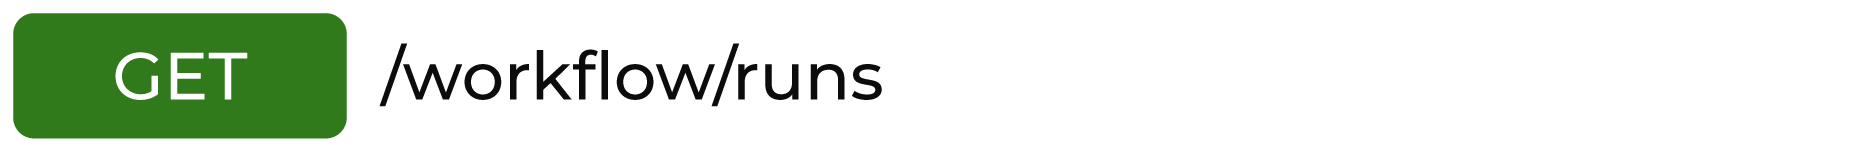
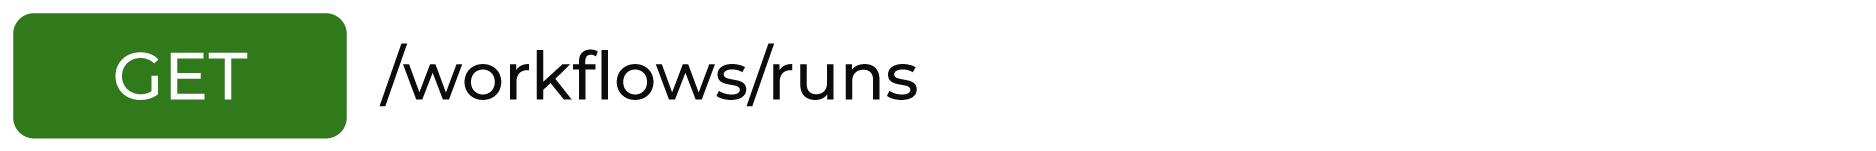
workflows endpoint, not workflow

Changed region(s): [[0.371, 0.2914, 0.4947, 0.7152]]

diff --git a/amperity_api/source/_templates/nav-docs.html b/amperity_api/source/_templates/nav-docs.html
@@ -234,12 +234,12 @@
         "hasSubItems": true,
         "subItems": [
           {
-            "title": "GET /workflow/runs",
+            "title": "GET /workflows/runs",
             "hasSubItems": false,
             "url": "/api/endpoint_get_workflows_list.html"
           },
           {
-            "title": "GET /workflow/runs/{id}",
+            "title": "GET /workflows/runs/{id}",
             "hasSubItems": false,
             "url": "/api/endpoint_get_workflows_fetch.html"
           },

diff --git a/amperity_api/source/endpoint_get_workflows_fetch.rst b/amperity_api/source/endpoint_get_workflows_fetch.rst
@@ -12,16 +12,16 @@
 
 .. meta::
     :content class=swiftype name=title data-type=string:
-        GET /workflow/runs/{id}
+        GET /workflows/runs/{id}
 
 
 ==================================================
-GET /workflow/runs/{id}
+GET /workflows/runs/{id}
 ==================================================
 
 .. endpoint-get-workflows-fetch-start
 
-Use the **/workflow/runs/{id}** endpoint to return details for a specific workflow.
+Use the **/workflows/runs/{id}** endpoint to return details for a specific workflow.
 
 .. endpoint-get-workflows-fetch-end
 
@@ -33,7 +33,7 @@ Available HTTP methods
 
 .. image:: ../../images/api-request-get-workflow-runs-fetch.png
    :width: 440 px
-   :alt: GET /workflow/runs/{id}
+   :alt: GET /workflows/runs/{id}
    :align: left
    :class: no-scaled-link
 
@@ -58,11 +58,11 @@ Base URL
 
 .. endpoint-get-workflows-fetch-base-url-start
 
-All requests made to the **/workflow/runs/{id}** endpoint should be directed to the following base URL:
+All requests made to the **/workflows/runs/{id}** endpoint should be directed to the following base URL:
 
 ::
 
-   https://{tenant-id}.amperity.com/api/workflow/runs/{id}
+   https://{tenant-id}.amperity.com/api/workflows/runs/{id}
 
 .. endpoint-get-workflows-fetch-base-url-end
 
@@ -84,12 +84,12 @@ Requests
 
 .. endpoint-get-workflows-fetch-request-start
 
-A request to the **/workflow/runs/{id}** endpoint is similar to:
+A request to the **/workflows/runs/{id}** endpoint is similar to:
 
 .. code-block:: rest
 
    curl --request GET \
-          'https://tenant.amperity.com/api/workflow/runs/{id} \
+          'https://tenant.amperity.com/api/workflows/runs/{id} \
           ?view=overview \
         --header 'amperity-tenant: tenant' \
         --header 'api-version: 2024-04-01' \
@@ -107,7 +107,7 @@ Request parameters
 
 .. endpoint-get-workflows-fetch-request-parameters-start
 
-The following table describes the parameters that may be used with the **/workflow/runs/{id}** endpoint.
+The following table describes the parameters that may be used with the **/workflows/runs/{id}** endpoint.
 
 .. list-table::
    :widths: 35 65
@@ -129,7 +129,7 @@ The following table describes the parameters that may be used with the **/workfl
 
        The unique identifier for a workflow, similar to: **wf-20240603-12345-MNabc**.
 
-       The workflow ID must be in the URL. For example: **/workflow/runs/wf-20240603-12345-MNabc**.
+       The workflow ID must be in the URL. For example: **/workflows/runs/wf-20240603-12345-MNabc**.
 
        Use the :doc:`/workflow/runs <endpoint_get_workflows_list>` endpoint to get a list of workflow IDs or copy the ID from the **Workflows** page in Amperity.
 
@@ -153,7 +153,7 @@ Request examples
 
 .. endpoint-get-workflows-fetch-request-examples-start
 
-The following examples show how to send requests to the **/workflow/runs/{id}** endpoint.
+The following examples show how to send requests to the **/workflows/runs/{id}** endpoint.
 
 .. endpoint-get-workflows-fetch-request-examples-end
 
@@ -165,12 +165,12 @@ cURL
 
 .. endpoint-get-workflows-fetch-request-example-curl-start
 
-The following example shows how to use cURL to send a request to the **/workflow/runs/{id}** endpoint.
+The following example shows how to use cURL to send a request to the **/workflows/runs/{id}** endpoint.
 
 .. code-block:: rest
 
    curl --request GET \
-          'https://tenant.amperity.com/api/workflow/runs/{id} \
+          'https://tenant.amperity.com/api/workflows/runs/{id} \
           ?view=overview \
         --header 'amperity-tenant: tenant' \
         --header 'api-version: 2024-04-01' \
@@ -188,7 +188,7 @@ Responses
 
 .. endpoint-get-workflows-fetch-responses-start
 
-A response from the **/workflow/runs/{id}** endpoint will match an :doc:`HTTP status code <responses>`. A 200 response will contain the results set. A 4xx response indicates an issue with the configuration of your request. A 5xx response indicates that the endpoint is unavailable.
+A response from the **/workflows/runs/{id}** endpoint will match an :doc:`HTTP status code <responses>`. A 200 response will contain the results set. A 4xx response indicates an issue with the configuration of your request. A 5xx response indicates that the endpoint is unavailable.
 
 .. endpoint-get-workflows-fetch-responses-end
 

diff --git a/amperity_api/source/endpoint_get_workflows_list.rst b/amperity_api/source/endpoint_get_workflows_list.rst
@@ -12,16 +12,16 @@
 
 .. meta::
     :content class=swiftype name=title data-type=string:
-        GET /workflow/runs
+        GET /workflows/runs
 
 
 ==================================================
-GET /workflow/runs
+GET /workflows/runs
 ==================================================
 
 .. endpoint-get-workflows-list-start
 
-Use the **/workflow/runs** endpoint to return a list of workflows that exist within the date range defined in the request.
+Use the **/workflows/runs** endpoint to return a list of workflows that exist within the date range defined in the request.
 
 .. endpoint-get-workflows-list-end
 
@@ -33,7 +33,7 @@ Available HTTP methods
 
 .. image:: ../../images/api-request-get-workflow-runs-list.png
    :width: 440 px
-   :alt: GET /workflow/runs/
+   :alt: GET /workflows/runs/
    :align: left
    :class: no-scaled-link
 
@@ -58,11 +58,11 @@ Base URL
 
 .. endpoint-get-workflows-list-base-url-start
 
-All requests made to the **/workflow/runs** endpoint should be directed to the following base URL:
+All requests made to the **/workflows/runs** endpoint should be directed to the following base URL:
 
 ::
 
-   https://{tenant-id}.amperity.com/api/workflow/runs
+   https://{tenant-id}.amperity.com/api/workflows/runs
 
 .. endpoint-get-workflows-list-base-url-end
 
@@ -84,12 +84,12 @@ Requests
 
 .. endpoint-get-workflows-list-request-start
 
-A request to the **/workflow/runs** endpoint is similar to:
+A request to the **/workflows/runs** endpoint is similar to:
 
 .. code-block:: rest
 
    curl --request GET \
-          'https://tenant.amperity.com/api/workflow/runs \
+          'https://tenant.amperity.com/api/workflows/runs \
           ?limit=12 \
           &with_total=true \
 
@@ -112,7 +112,7 @@ Request parameters
 
 .. endpoint-get-workflows-list-request-parameters-start
 
-The following table describes the parameters that may be used with the **/workflow/runs** endpoint.
+The following table describes the parameters that may be used with the **/workflows/runs** endpoint.
 
 .. list-table::
    :widths: 35 65
@@ -227,7 +227,7 @@ Request examples
 
 .. endpoint-get-workflows-list-request-examples-start
 
-The following examples show how to send requests to the **/workflow/runs** endpoint.
+The following examples show how to send requests to the **/workflows/runs** endpoint.
 
 .. endpoint-get-workflows-list-request-examples-end
 
@@ -239,12 +239,12 @@ cURL
 
 .. endpoint-get-workflows-list-request-example-curl-start
 
-The following example shows how to use cURL to send a request to the **/workflow/runs** endpoint.
+The following example shows how to use cURL to send a request to the **/workflows/runs** endpoint.
 
 .. code-block:: rest
 
    curl --request GET \
-          'https://tenant.amperity.com/api/workflow/runs \
+          'https://tenant.amperity.com/api/workflows/runs \
           ?limit=12 \
           &with_total=true \
         --header 'amperity-tenant: tenant' \
@@ -263,7 +263,7 @@ Responses
 
 .. endpoint-get-workflows-list-responses-start
 
-A response from the **/workflow/runs** endpoint will match an :doc:`HTTP status code <responses>`. A 200 response will contain the results set. A 4xx response indicates an issue with the configuration of your request. A 5xx response indicates that the endpoint is unavailable.
+A response from the **/workflows/runs** endpoint will match an :doc:`HTTP status code <responses>`. A 200 response will contain the results set. A 4xx response indicates an issue with the configuration of your request. A 5xx response indicates that the endpoint is unavailable.
 
 .. endpoint-get-workflows-list-responses-end
 
